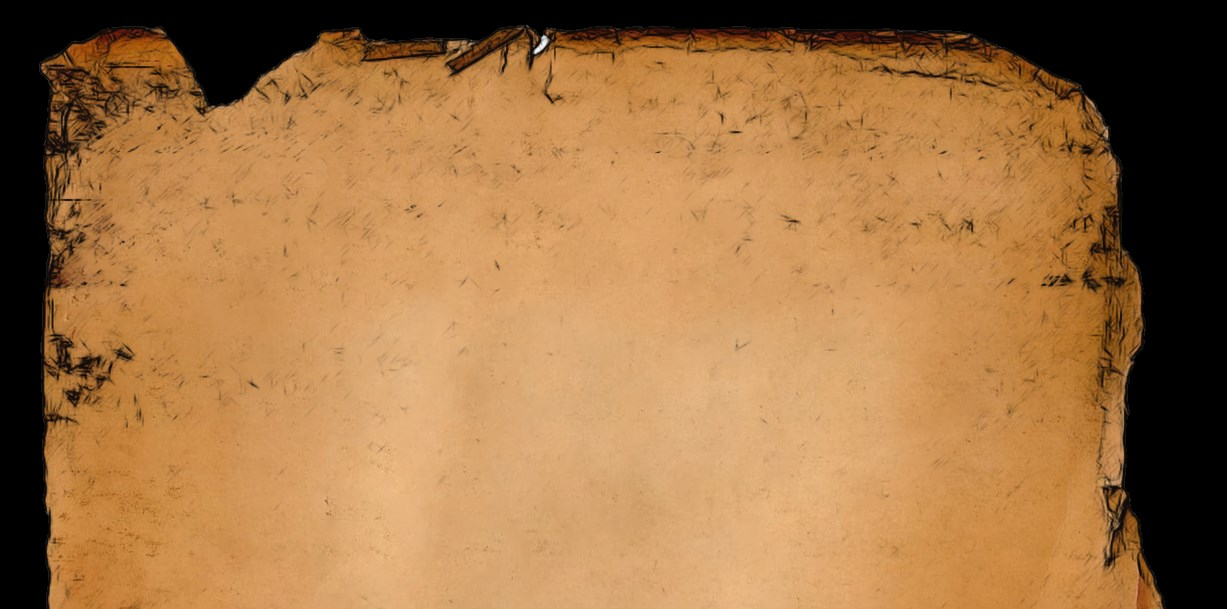
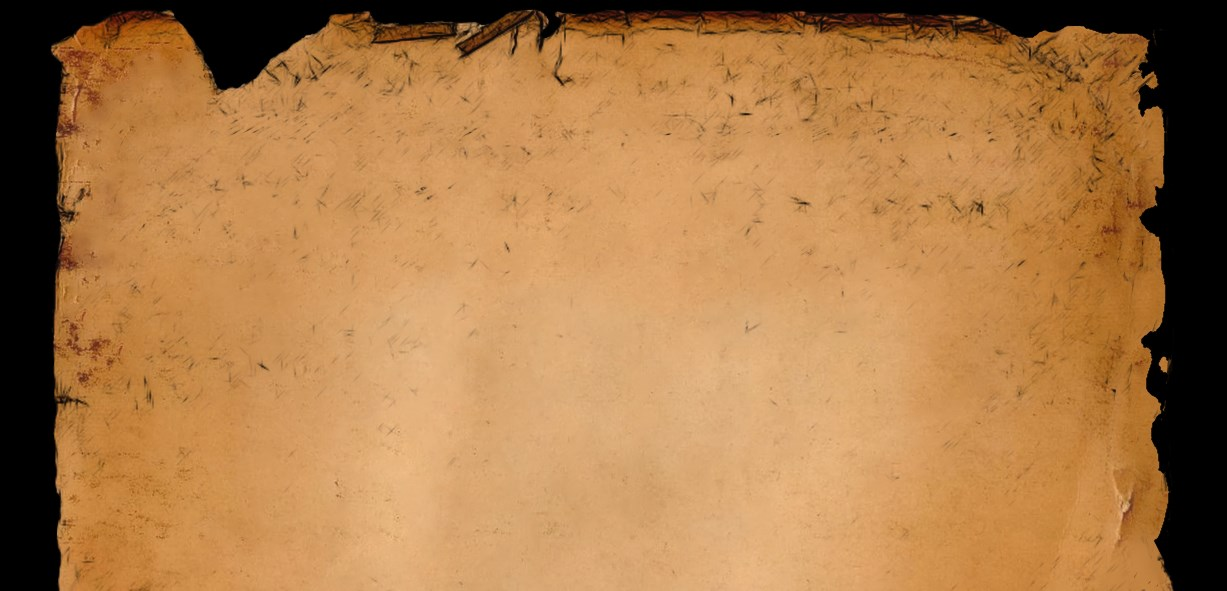
Improved backgrounds

diff --git a/index.html b/index.html
@@ -132,9 +132,6 @@
   <section id="trailer">
     <a name="trailer"></a>
     <div class="content-section">
-      <div class="row spacer"><div class="span"></div></div>
-      <div class="row spacer"><div class="span"></div></div>
-      <div class="row spacer"><div class="span"></div></div>
       <div class="container">
         <div class="col-sm-10 col-sm-offset-1">
           <div class="embed-responsive embed-responsive-16by9">
